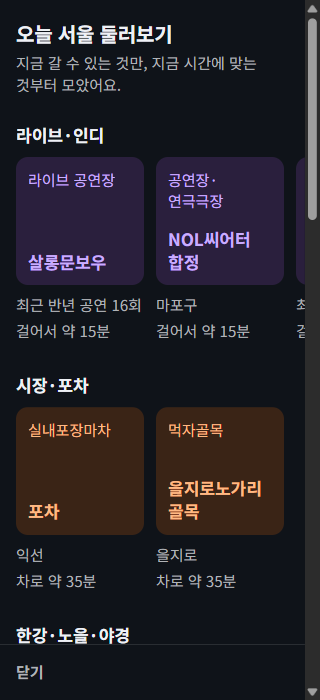
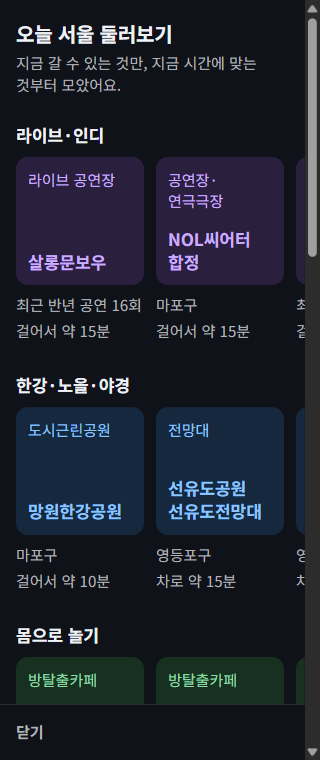
fix(browse): 리뷰 3 MAJOR 2건 - 넘긴 줄 수 0~10, 꽉 찬 줄(6장 이상)이 앞에 (ADR-0115 Amendment 3); 찜질방 자정 넘어, 전시 줄은 전시만, 동네 시트 출처 줄, 개인정보 안내 5초 단위, 스크린숏 다시

diff --git a/apps/web/tests/browse.test.ts b/apps/web/tests/browse.test.ts
@@ -2,7 +2,7 @@
 // most 12, none empty, nothing shut now, the hour's shelves first, 동네 cards; the picture and link addresses; 머문 시간 in fives.
 import { describe, expect, it } from 'vitest';
 import { cultureItems, type CultureItem, type SeoulRow } from '../functions/_lib/culture-filter';
-import { HOOD_MIN, ORDER, PER_SHELF, browseCard, buildShelves, imageUrl, inHood, linkUrl, RESIZE, todayTimes, type ShelfKey } from '../src/browse';
+import { FULL, HOOD_MIN, ORDER, PER_SHELF, browseCard, buildShelves, imageUrl, inHood, linkUrl, RESIZE, todayTimes, type ShelfKey } from '../src/browse';
 import { openNow, type Now } from '../src/culture';
 import { bandOf, funItems, hoursOf, isFun, likelyOpen, realItems, type FunItem } from '../src/fun';
 import { distanceKm } from '../src/pick';
@@ -89,8 +89,15 @@ describe('buildShelves (ADR-0114 2·3, ADR-0115 6)', () => {
   ])('the 11-04 list at %i:00: the hour\'s order, none empty, ≤ 12, each item once, nothing shut, no museum in the first three', (h, o) => {
     const shelves = buildShelves(items, at(h), o, SUNSET);
     const keys = shelves.map((s) => s.key);
+    // full shelves (≥ FULL cards) first, each part in the hour's order
     const rank = ORDER[bandOf(h * 60, SUNSET)];
-    expect(keys).toEqual([...keys].sort((a, b) => rank.indexOf(a) - rank.indexOf(b)));
+    const full = shelves.filter((s) => s.cards.length >= FULL).map((s) => s.key);
+    const short = shelves.filter((s) => s.cards.length < FULL).map((s) => s.key);
+    expect(keys).toEqual([...full, ...short]);
+    expect(full).toEqual([...full].sort((a, b) => rank.indexOf(a) - rank.indexOf(b)));
+    expect(short).toEqual([...short].sort((a, b) => rank.indexOf(a) - rank.indexOf(b)));
+    // ADR-0115 성공 기준 (Amendment 3): four full shelves or more besides 전시·박물관, and they lead
+    expect(full.filter((k) => k !== 'exhibit').length).toBeGreaterThanOrEqual(4);
     for (const s of shelves) {
       expect(s.cards.length).toBeGreaterThan(0);
       expect(s.cards.length).toBeLessThanOrEqual(PER_SHELF);
@@ -103,12 +110,32 @@ describe('buildShelves (ADR-0114 2·3, ADR-0115 6)', () => {
           if (c.item.fun.g !== 'hood') expect(likelyOpen(c.item, h * 60, c.trip?.minutes ?? 0, 11)).toBe(true);
         } else expect(openNow(c.item, at(h), undefined, c.trip?.minutes ?? 0)).not.toBe('shut');
       }
-    // ADR-0115 성공 기준: four shelves or more besides 전시·박물관; no museum in the first three
-    expect(keys.filter((k) => k !== 'exhibit').length).toBeGreaterThanOrEqual(4);
     for (const s of shelves.slice(0, 3)) {
       expect(s.key).not.toBe('exhibit');
       for (const c of s.cards) expect(c.item.title).not.toMatch(MUSEUM);
     }
+  });
+
+  it("the hour's order itself: with every shelf full, the shelves come exactly as ORDER says", () => {
+    const many = (k: string, n: number, over: (i: number) => Partial<CultureItem>) => Array.from({ length: n }, (_, i) => item({ id: `${k}${i}`, lat: 37.58, lng: 126.98, ...over(i) }));
+    const kinds: [FunItem['fun']['g'], string][] = [['G1', '한강공원'], ['G2', '포차거리'], ['G5', '찜질방'], ['G7', '소극장']];
+    const set = [
+      ...kinds.flatMap(([g, word]) => Array.from({ length: 6 }, (_, i) => place({ id: `kk-${g}${i}`, g, word, lat: 37.58, lng: 126.98 }))),
+      ...many('s', 6, () => ({ kind: '연극', time: '수요일 23:00' })),
+      ...many('t', 6, () => ({ kind: '전시/미술', end: DAY, time: '10:00~23:30' })),
+    ];
+    // 22:00 is night: 무대, 라이브, 포차, 한강, 놀거리 … 오늘만 (no 동네·전시 here)
+    expect(buildShelves(set, at(22), null, SUNSET).map((s) => s.key)).toEqual(ORDER.night.filter((k) => ['stage', 'g7', 'g2', 'g1', 'g5', 'today'].includes(k)));
+    expect(ORDER.night.slice(0, 3)).toEqual(['stage', 'g7', 'g2']);
+    expect(ORDER.dusk[0]).toBe('g1');
+    expect(ORDER.late[0]).toBe('g5');
+    for (const band of Object.values(ORDER)) expect(band.indexOf('exhibit')).toBe(band.length - 1);
+  });
+
+  it('찜질방 all night; a bar open past midnight', () => {
+    expect(likelyOpen(place({ g: 'G5', word: '찜질방' }), 23 * 60 + 45, 20, 11)).toBe(true);
+    expect(likelyOpen(place({ g: 'G2', word: '포차거리' }), 23 * 60 + 50, 30, 11)).toBe(true);
+    expect(likelyOpen(place({ g: 'G2', word: '포차거리' }), 60 + 40, 0, 11)).toBe(false);
   });
 
   it('the curated shelves: nearest first, with how far; 6 cards or more at 14:00 near the busy 동네', () => {

diff --git a/apps/web/src/browse.ts b/apps/web/src/browse.ts
@@ -18,6 +18,8 @@ export const ORDER: Record<Band, readonly ShelfKey[]> = {
   late: ['g5', 'g2', 'g1', 'g7', 'hood', 'stage', 'g4', 'g6', 'today', 'exhibit'],
 };
 export const PER_SHELF = 12;
+/** A shelf with fewer cards goes after the full ones (ADR-0115 성공 기준: 줄마다 6장 이상 at the top). */
+export const FULL = 6;
 /** A 동네 is shown with at least this many things in it now. */
 export const HOOD_MIN = 2;
 
@@ -83,7 +85,7 @@ export function buildShelves(items: readonly CultureItem[], now: Now, origin: Po
     g7: g('G7'),
     stage: (c) => !isFun(c.item) && SHOW.test(c.item.kind),
     today: (c) => !isFun(c.item) && nowness(c.item, now.day) <= 1,
-    exhibit: (c) => !isFun(c.item),
+    exhibit: (c) => !isFun(c.item) && c.item.kind.startsWith('전시'),
   };
   const far = (c: Cand) => c.km ?? 0;
   // the day's own: the clear ones (big stages, museums) first, then the nearer; a curated place or a 동네: the nearer first
@@ -104,7 +106,8 @@ export function buildShelves(items: readonly CultureItem[], now: Now, origin: Po
     if (cards.length) out.push({ key, cards: cards.map(({ item, why, trip, count }) => ({ item, why, trip, ...(count !== undefined ? { count } : {}) })) });
   }
   const rank = ORDER[bandOf(now.minute, sunset)];
-  return out.sort((a, b) => rank.indexOf(a.key) - rank.indexOf(b.key));
+  const short = (s: Shelf) => (s.cards.length < FULL ? 1 : 0);
+  return out.sort((a, b) => short(a) - short(b) || rank.indexOf(a.key) - rank.indexOf(b.key));
 }
 
 const hhmm = (m: number) => `${Math.floor(m / 60)}:${String(m % 60).padStart(2, '0')}`;

diff --git a/apps/web/public/privacy-ja.html b/apps/web/public/privacy-ja.html
@@ -74,7 +74,7 @@
         <li>いまの旅行先（済州・釜山・江原・ソウル・ほかの場所）</li>
         <li>最初に開いたときにスタート画面が表示されたか、その画面で現在地で始めたか自分で選んだか（自分で選んだ場合は、その前に位置情報を使えなかった理由：拒否、見つからない、旅行先の外）と、選んだ旅行先</li>
         <li>宿のリンクから来た場合は、そのリンクのタグ（その訪問での流入、気分を押した回数、外部の地図アプリへのリンクを開いた回数を、タグごとに分けて数えます）</li>
-        <li>ソウルの「今日のソウルを見て回る」を開いたか、開いていた時間（10秒単位）、横にスクロールした列の数、押したカードの数（0・1・2以上）、カードで経路・詳しくを押したか（どの行事・公演か、位置情報は入れません）</li>
+        <li>ソウルの「今日のソウルを見て回る」を開いたか、開いていた時間（5秒単位）、横にスクロールした列の数、押したカードの数（0・1・2以上）、カードで経路・詳しくを押したか（どの行事・公演か、位置情報は入れません）</li>
         <li>日付（時刻なし）</li>
       </ul>
       <p>このサイトのサーバー（Cloudflare）は、日付・場所・操作ごとの回数だけを積み上げます。IPアドレス、ブラウザの情報、Cookieは、読み取りも保存もしません。</p>

diff --git a/apps/web/src/culture-view.ts b/apps/web/src/culture-view.ts
@@ -104,8 +104,8 @@ function rows(doc: Document, picks: Pick[], app: MapApp): HTMLElement {
 
 /** The source lines: the Seoul list's, and KOPIS's when a show is among `picks` (ADR-0113 6). */
 const sources = (doc: Document, picks: readonly { item: CultureItem }[]) => [
-  el(doc, 'p', { class: 'cult-src' }, CULTURE_COPY.from),
-  ...(picks.some((p) => p.item.id.startsWith('kp-')) ? [el(doc, 'p', { class: 'cult-src' }, CULTURE_COPY.fromShows)] : []),
+  el(doc, 'p', { class: 'cult-src', 'data-src': 'seoul' }, CULTURE_COPY.from),
+  ...(picks.some((p) => p.item.id.startsWith('kp-')) ? [el(doc, 'p', { class: 'cult-src', 'data-src': 'kopis' }, CULTURE_COPY.fromShows)] : []),
 ];
 
 /** The home's block: at most 2, 더 보기 when the list has more, and the source. With nothing near, 오늘 서울 둘러보기's way in
@@ -148,7 +148,7 @@ function browseCard(doc: Document, s: State, origin: Origin | null, id: string):
   const c = s.culture!;
   const it = c.items.find((x) => x.id === id);
   // the source lines: a curated place's is 카카오맵; a 동네 can hold both
-  const kakao = el(doc, 'p', { class: 'cult-src' }, BROWSE_COPY.fromKakao);
+  const kakao = el(doc, 'p', { class: 'cult-src', 'data-src': 'kakao' }, BROWSE_COPY.fromKakao);
   const src = !it ? [] : !isFun(it) ? sources(doc, [{ item: it }]) : it.fun.g === 'hood' ? [kakao, ...sources(doc, allItems(c))] : [kakao];
   return browseCardSheet(doc, c.items, id, nowOf(c), origin?.point ?? null, s.mapApp, CULTURE_COPY.cast, src);
 }

diff --git a/apps/web/public/privacy-en.html b/apps/web/public/privacy-en.html
@@ -74,7 +74,7 @@
         <li>The destination in use (Jeju, Busan, Gangwon, Seoul or somewhere else)</li>
         <li>Whether the start screen appeared the first time you opened the app, whether you started there with your location or chose a destination yourself (if you chose, why your location couldn't be used before that: denied, not found, or outside the destinations), and the destination you picked</li>
         <li>If you arrived through a stay's link, that link's tag (arrivals in that visit, mood taps, and outside map app link opens are counted separately for each tag)</li>
-        <li>Whether you opened “Browse Seoul today”, how long it stayed open (in 10-second steps), how many rows you scrolled sideways, how many cards you tapped (0, 1, or 2 or more), and whether you tapped Directions or Details on a card (never which event or show, and no location)</li>
+        <li>Whether you opened “Browse Seoul today”, how long it stayed open (in 5-second steps), how many rows you scrolled sideways, how many cards you tapped (0, 1, or 2 or more), and whether you tapped Directions or Details on a card (never which event or show, and no location)</li>
         <li>Date (no time of day)</li>
       </ul>
       <p>This site's server (Cloudflare) only keeps counts per date, place, and action. It neither reads nor stores IP addresses, browser information, or cookies.</p>

diff --git a/apps/web/public/privacy-zh-Hans.html b/apps/web/public/privacy-zh-Hans.html
@@ -74,7 +74,7 @@
         <li>当前的旅行地（济州、釜山、江原、首尔或其他地方）</li>
         <li>第一次打开时是否出现了开始页面、在该页面是用位置开始还是自己选择（如果是自己选择，则为之前无法使用位置的原因：拒绝、找不到、不在旅行地内），以及所选的旅行地</li>
         <li>如果是通过住宿的链接进入，则记录该链接的标签（该次访问的进入、点按心情、打开外部地图App链接，按标签分别计数）</li>
-        <li>是否打开了首尔的“逛逛今天的首尔”、停留时长（以10秒为单位）、横向滑动过的行数、点按的卡片数（0、1、2张及以上），以及是否在卡片上点按了路线或详情（不记录是哪个活动或演出，也不记录位置）</li>
+        <li>是否打开了首尔的“逛逛今天的首尔”、停留时长（以5秒为单位）、横向滑动过的行数、点按的卡片数（0、1、2张及以上），以及是否在卡片上点按了路线或详情（不记录是哪个活动或演出，也不记录位置）</li>
         <li>日期（不含时间）</li>
       </ul>
       <p>本网站的服务器（Cloudflare）只按日期、地点和操作累计次数，不读取也不保存IP地址、浏览器信息或Cookie。</p>

diff --git a/apps/web/public/privacy.html b/apps/web/public/privacy.html
@@ -73,7 +73,7 @@
         <li>지금 여행지(제주·부산·강원·서울·다른 곳)</li>
         <li>처음 열 때 시작 화면이 보였는지, 그 화면에서 위치로 시작했는지 직접 골랐는지(직접 골랐다면 그 전에 위치를 쓸 수 없었던 까닭: 거절, 찾지 못함, 여행지 밖)와 고른 여행지</li>
         <li>숙소 링크로 들어왔다면 그 링크의 꼬리표(그 방문에서 들어옴, 기분 누름, 외부 지도 앱 링크 열기를 꼬리표마다 따로 세요)</li>
-        <li>서울의 ‘오늘 서울 둘러보기’를 열었는지, 머문 시간(10초 단위), 옆으로 넘겨 본 줄 수, 누른 카드 수(0·1·2 이상), 카드에서 길찾기·자세히를 눌렀는지(어느 행사·공연인지와 위치는 넣지 않아요)</li>
+        <li>서울의 ‘오늘 서울 둘러보기’를 열었는지, 머문 시간(5초 단위), 옆으로 넘겨 본 줄 수, 누른 카드 수(0·1·2 이상), 카드에서 길찾기·자세히를 눌렀는지(어느 행사·공연인지와 위치는 넣지 않아요)</li>
         <li>날짜(시각 없이)</li>
       </ul>
       <p>이 사이트의 서버(Cloudflare)는 날짜·장소·한 일마다 횟수만 쌓아요. 접속 IP, 브라우저 정보, 쿠키는 읽지도 저장하지도 않아요.</p>

diff --git a/apps/web/tests/events.test.ts b/apps/web/tests/events.test.ts
@@ -590,7 +590,7 @@ describe('오늘 서울 둘러보기 — 받는 쪽', () => {
       ]),
     );
     for (const r of rows) expect(BROWSE_IDS).toContain(r.id);
-    expect(BROWSE_IDS).toHaveLength(4 + 121 + 8 + 3);
+    expect(BROWSE_IDS).toHaveLength(4 + 121 + 11 + 3);
     expect(aggregate(rows)).toEqual([]);
   });
 
@@ -606,7 +606,7 @@ describe('오늘 서울 둘러보기 — 받는 쪽', () => {
     ['browse_done without secs', [{ e: 'browse_done', rows: 1, cards: 0, d }]],
     ['secs not in fives', [{ e: 'browse_done', secs: 47, rows: 1, cards: 0, d }]],
     ['secs past 600', [{ e: 'browse_done', secs: 610, rows: 1, cards: 0, d }]],
-    ['rows past 7', [{ e: 'browse_done', secs: 40, rows: 8, cards: 0, d }]],
+    ['rows past 10 (the shelves there are, browse.ts SHELVES)', [{ e: 'browse_done', secs: 40, rows: 11, cards: 0, d }]],
     ['cards past 2', [{ e: 'browse_done', secs: 40, rows: 1, cards: 3, d }]],
     ['a fraction of rows', [{ e: 'browse_done', secs: 40, rows: 1.5, cards: 0, d }]],
     ['secs as a string', [{ e: 'browse_done', secs: '40', rows: 1, cards: 0, d }]],

diff --git a/apps/web/events/handler.ts b/apps/web/events/handler.ts
@@ -29,7 +29,7 @@ export const START_IDS: readonly string[] = [
 ];
 
 /** 오늘 서울 둘러보기 (ADR-0114 7): the counter ids of its events — `browse:open`, `browse:card`, `browse:go` / `browse:more`, and
- * for each time it was left one under each of `browse:secs:<0…600 in fives>`, `browse:rows:<0…7>`, `browse:cards:<0…2>` (so the
+ * for each time it was left one under each of `browse:secs:<0…600 in fives>`, `browse:rows:<0…10>`, `browse:cards:<0…2>` (so the
  * median stay and the share of openings with a card pressed can be read). Not places (`browse:` prefix). */
 export const BROWSE_IDS: readonly string[] = [
   'browse:open',
@@ -37,7 +37,7 @@ export const BROWSE_IDS: readonly string[] = [
   'browse:go',
   'browse:more',
   ...Array.from({ length: 121 }, (_, i) => `browse:secs:${i * 5}`),
-  ...Array.from({ length: 8 }, (_, i) => `browse:rows:${i}`),
+  ...Array.from({ length: 11 }, (_, i) => `browse:rows:${i}`),
   ...[0, 1, 2].map((n) => `browse:cards:${n}`),
 ];
 

diff --git a/apps/web/src/fun.ts b/apps/web/src/fun.ts
@@ -64,8 +64,11 @@ export function hoursOf(word: string): readonly [number, number] {
 export function likelyOpen(it: FunItem, minute: number, travel: number, month: number): boolean {
   if (it.fun.g === 'G6' && (month < 3 || month > 10)) return false;
   const [open, close] = hoursOf(it.fun.word);
+  if (open === 0 && close >= 1440) return true; // all day and night (찜질방)
+  const fits = (t: number) => t >= open && t <= close - 30;
   const at = minute + travel;
-  return (at >= open && at <= close - 30) || (close > 1440 && at + 1440 <= close - 30);
+  // past midnight: the same minute read as late in the evening before (a bar open to 02:00), or as early on the next day
+  return fits(at) || fits(at + 1440) || (at >= 1440 && fits(at - 1440));
 }
 
 /** 지금 시간대 (ADR-0115 6): the sunset ± its hour decides 노을; night after it, late past midnight. */

diff --git a/apps/web/src/browse-view.ts b/apps/web/src/browse-view.ts
@@ -194,7 +194,9 @@ function hoodSheet(doc: Document, hood: CultureItem, items: readonly CultureItem
     li.append(a);
     list.append(li);
   }
-  sheet.append(list, ...sources, el(doc, 'button', { type: 'button', class: 'sheet-close', 'data-action': 'close' }, COPY.close));
+  // only the sources of what is listed: 카카오맵 for a curated place, the city's for an event, KOPIS for a show
+  const used = (s: HTMLElement) => inside.some((x) => (s.dataset.src === 'kakao' ? isFun(x.item) : s.dataset.src === 'kopis' ? x.item.id.startsWith('kp-') : !isFun(x.item)));
+  sheet.append(list, ...sources.filter(used), el(doc, 'button', { type: 'button', class: 'sheet-close', 'data-action': 'close' }, COPY.close));
   layer.append(el(doc, 'div', { class: 'scrim', 'data-action': 'close' }), sheet);
   return layer;
 }

diff --git a/apps/web/events/validate.ts b/apps/web/events/validate.ts
@@ -74,7 +74,7 @@ export function eventProblem(x: unknown, today?: Day): string | null {
     const more = Object.keys(o).find((k) => !browse.includes(k));
     if (more) return `${more} on ${o.e}`;
     if (o.e === 'browse_link' && !inSet(LINKS, o.link)) return 'link';
-    if (o.e === 'browse_done' && !(whole(o.secs, 600, 5) && whole(o.rows, 7) && whole(o.cards, 2))) return 'browse_done';
+    if (o.e === 'browse_done' && !(whole(o.secs, 600, 5) && whole(o.rows, 10) && whole(o.cards, 2))) return 'browse_done';
     return null;
   }
   if (o.secs !== undefined || o.rows !== undefined || o.cards !== undefined || o.link !== undefined) return `browse fields on ${o.e}`;
